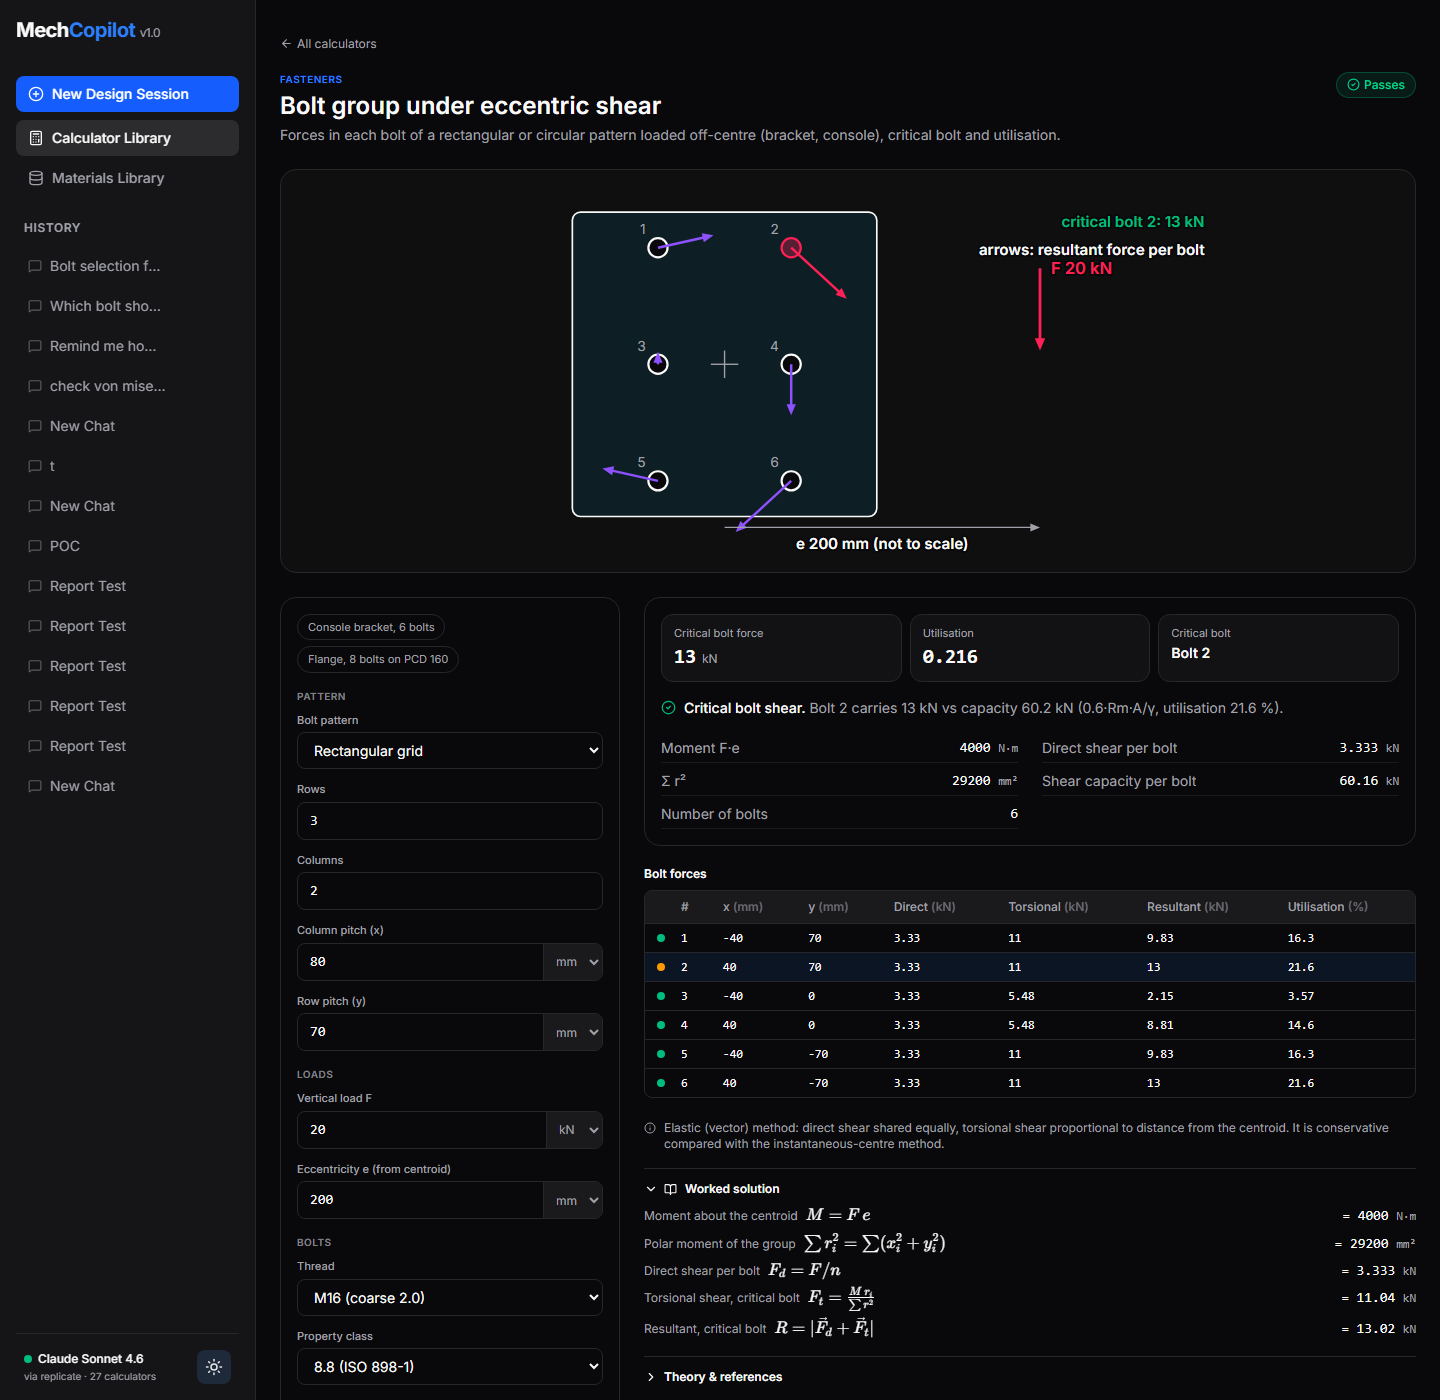
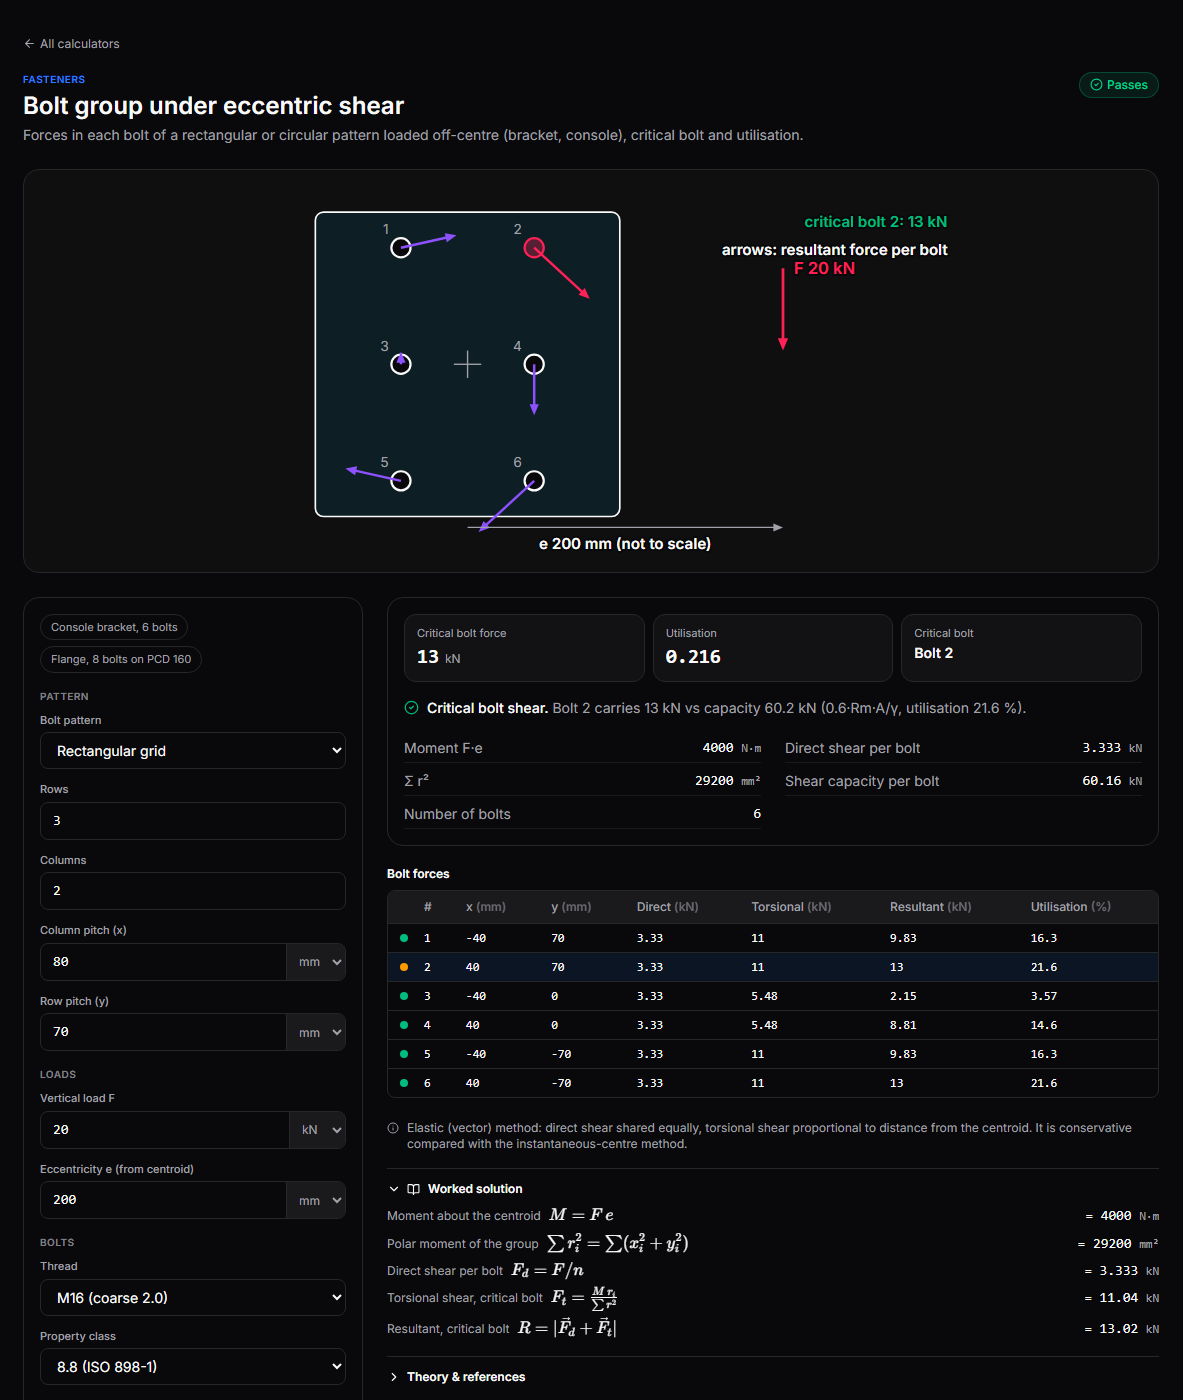
Fix four engineering errors, check answers for invented numbers, tidy the repo
Engineering (each with a regression test):
- Interference fit, hollow shaft: the yield check now uses the bore, where the
  stress is highest (Shigley eq. 3-50 at r = ri). It overstated the safety factor
  by 1.4x and more for thin walls.
- ISO 286: the M6 special case for 250-315 mm (ES = -9 um).
- ISO 281: reliability factor a1 at 99.95 % is 0.077, not 0.057.
- Column buckling: recommended K = 2.1 for fixed-free, next to the theoretical 2.0.

Copilot:
- After the answer, every number in it is checked against the calculations, the
  inputs, the assumptions and the conversation; anything else is shown to the user
  as an unverified-number notice. The rule was in the prompt only.
- The results handed to the review model stay valid JSON when long: detail is
  dropped first, then whole results, and the omission is stated, instead of a raw
  cut at 14,000 characters.

Repo and README:
- Settings refuse a line break in a value written to .env (422).
- Pydantic v2 names (from_attributes, model_dump).
- Screenshots cropped to the calculator, without the sidebar's test history; three
  unused ones added to the README; the installer section says no release exists yet.
- Removed project_roles/, agent prompts for a stack this project no longer uses.

415 backend tests pass.

diff --git a/backend/copilot.py b/backend/copilot.py
@@ -25,6 +25,7 @@ import pint
 from engineering.core import (CalcError, UNIT_CHOICES, coerce_inputs, derived_inputs, is_visible,
                               run_calculator, to_canonical, unit_label, ureg)
 from engineering.registry import CATALOG, ordered
+from evals.grader import grounding
 
 
 def extract_balanced_json(text: str, start: int) -> Optional[str]:
@@ -960,6 +961,36 @@ def _inputs_display(tool: Dict[str, Any]) -> Dict[str, Any]:
     return out
 
 
+def results_for_review(summary: List[Dict[str, Any]], limit: int = 14000) -> str:
+    """The computed results as valid JSON within `limit` characters. Cutting the JSON text
+    mid-way would hand the review model broken data it might fill in from memory, so detail
+    goes first (tables, notes, links), then whole results, and what was left out is said."""
+    text = json.dumps(summary, indent=1, ensure_ascii=False)
+    if len(text) <= limit:
+        return text
+    lean = [{k: v for k, v in s.items() if k not in ("tables", "notes", "links")} for s in summary]
+    kept: List[Dict[str, Any]] = []
+    for s in lean:
+        if len(json.dumps(kept + [s], indent=1, ensure_ascii=False)) > limit - 200:
+            break
+        kept.append(s)
+    if len(kept) < len(lean):
+        kept.append({"omitted": f"{len(lean) - len(kept)} more results not shown here; do not quote numbers for them"})
+    return json.dumps(kept, indent=1, ensure_ascii=False)
+
+
+def ungrounded_numbers(answer: str, message: str, history: List[Dict[str, Any]],
+                       summary: List[Dict[str, Any]], tools: List[Dict[str, Any]],
+                       assumptions: List[Any]) -> List[str]:
+    """Numbers in a model-written answer that no calculation, input, assumption or earlier
+    message produced. The prompt forbids them; this checks that the model complied."""
+    sources = "\n".join([message, _history_text(history),
+                         json.dumps(summary, ensure_ascii=False),
+                         json.dumps(tools, ensure_ascii=False, default=str),
+                         json.dumps(assumptions, ensure_ascii=False, default=str)])
+    return grounding(answer, sources)["ungrounded"]
+
+
 def summarise(results: List[Dict[str, Any]],
               tools: Optional[List[Dict[str, Any]]] = None) -> List[Dict[str, Any]]:
     """Compact, model-friendly digest of each run (also stored for reports).
@@ -1182,7 +1213,7 @@ def respond(message: str, history: List[Dict[str, Any]], tier: str = "efficient"
                   f"Assumptions made when planning: {json.dumps(plan.get('assumptions') or [], ensure_ascii=False)}\n"
                   f"Missing information: {json.dumps(plan.get('missing') or [], ensure_ascii=False)}\n\n"
                   f"COMPUTED RESULTS with TOOL INPUTS (authoritative):\n"
-                  f"{json.dumps(summary, indent=1, ensure_ascii=False)[:14000]}\n\n"
+                  f"{results_for_review(summary)}\n\n"
                   "Write your reply.")
         system = ANSWER_SYSTEM.replace("{word_limit}", str(WORD_LIMIT.get(tier, 170)))
         try:
@@ -1201,6 +1232,13 @@ def respond(message: str, history: List[Dict[str, Any]], tier: str = "efficient"
             yield {"type": "notice", "level": "warn", "content": str(e)}
             notices.append(str(e))
             configured = False
+    if answer:
+        loose = ungrounded_numbers(answer, message, history, summary, tools, plan.get("assumptions") or [])
+        if loose:
+            note = ("Not from a calculation or your input, so unverified: "
+                    + ", ".join(dict.fromkeys(loose)) + ".")
+            notices.append(note)
+            yield {"type": "notice", "level": "warn", "content": note}
     if not answer:
         answer = offline_answer(summary, configured=provider() != "offline")
         yield {"type": "token", "content": answer}

diff --git a/backend/tests/test_copilot.py b/backend/tests/test_copilot.py
@@ -291,3 +291,21 @@ def test_missing_key_inputs_ask_instead_of_computing(monkeypatch):
     assert final["tool_data"]["clarify"]["questions"] and final["tool_data"]["tools"] == []
     assert "[asked the user: Radial load; Bearing type]" in copilot._history_text(
         [{"role": "assistant", "content": final["content"], "tool_data": final["tool_data"]}])
+
+
+def test_results_for_review_stays_valid_json():
+    import json
+    from copilot import results_for_review
+    big = [{"calculator": f"c{i}", "outputs": {"x": "1 mm"}, "tables": ["t" * 3000]} for i in range(30)]
+    lean = json.loads(results_for_review(big, limit=4000))          # detail dropped first
+    assert len(lean) == 30 and all("tables" not in s for s in lean)
+    many = [{"calculator": f"c{i}", "outputs": {f"o{k}": "1 mm" for k in range(20)}} for i in range(30)]
+    text = results_for_review(many, limit=4000)                      # then whole results, said so
+    assert len(text) <= 4000 and "omitted" in json.loads(text)[-1]
+
+
+def test_ungrounded_numbers_flags_only_invented_values():
+    from copilot import ungrounded_numbers
+    summary = [{"calculator": "bolt", "outputs": {"Preload": "29.6 kN"}}]
+    answer = "**Use M10 8.8.** Preload 29.6 kN, tightening torque 48.5 N·m."
+    assert ungrounded_numbers(answer, "M10 bolt, 8.8", [], summary, [], []) == ["48.5"]

diff --git a/backend/routers/settings.py b/backend/routers/settings.py
@@ -42,6 +42,9 @@ def read_settings() -> Dict:
 def write_env(updates: Dict[str, Optional[str]]) -> None:
     """Set (value) or remove (None) variables in the .env file and in this process,
     keeping every other line of the file as it was."""
+    for k, v in updates.items():
+        if v is not None and ("\n" in v or "\r" in v):
+            raise ValueError(f"{k}: a value cannot contain a line break")
     path = env_path()
     lines = []
     if os.path.exists(path):
@@ -117,5 +120,8 @@ def save_settings(update: SettingsUpdate):
         if role in MODEL_VARS:
             model = model.strip()
             changes[MODEL_VARS[role]] = None if not model or model == MODEL_DEFAULTS[role] else model
-    write_env(changes)
+    try:
+        write_env(changes)
+    except ValueError as e:
+        raise HTTPException(status_code=422, detail=str(e))
     return {**read_settings(), "verified": verified}

diff --git a/backend/tests/test_transmission.py b/backend/tests/test_transmission.py
@@ -244,3 +244,16 @@ def test_drive_loads_spur_has_no_axial_force_and_coupling_no_shaft_load():
 def test_drive_loads_rejects_zero_speed():
     with pytest.raises(CalcError):
         run("drive_loads", {"n": 0})
+
+
+def test_interference_hollow_shaft_is_checked_at_the_bore():
+    # Shigley eq. 3-50 at r = ri: sigma_r = 0, sigma_t = -2 p d^2 / (d^2 - di^2), the highest stress in the shaft
+    res = run("interference_fit", {"di": {"value": 30, "unit": "mm"}})
+    p = out(res, "p_max")
+    assert out(res, "vm_shaft") == pytest.approx(2 * p * 40 ** 2 / (40 ** 2 - 30 ** 2), rel=1e-6)
+
+
+def test_iso286_m6_special_case_250_to_315():
+    # ISO 286-2: for M6 over 250 up to 315 mm, ES = -9 um instead of -11 um
+    assert iso286.hole_deviations(280, "M", 6) == pytest.approx((-9, -41))
+    assert iso286.hole_deviations(200, "M", 6)[0] != -9

diff --git a/backend/tests/test_settings.py b/backend/tests/test_settings.py
@@ -87,3 +87,12 @@ def test_unverifiable_key_is_saved_with_a_flag(data, monkeypatch):
     monkeypatch.setattr(settings, "check_key", lambda provider, key: None)   # no internet
     out = settings.save_settings(settings.SettingsUpdate(provider="replicate", api_key="r8_offline123456"))
     assert out["verified"] is None and "r8_offline123456" in _env(data)
+
+
+def test_write_env_refuses_a_line_break(tmp_path, monkeypatch):
+    from routers import settings
+    monkeypatch.setattr(settings, "env_path", lambda: str(tmp_path / ".env"))
+    import pytest
+    with pytest.raises(ValueError):
+        settings.write_env({"REPLICATE_MODEL": "x\nALLOWED_ORIGINS=*"})
+    assert not (tmp_path / ".env").exists()

diff --git a/backend/engineering/structural/columns.py b/backend/engineering/structural/columns.py
@@ -8,7 +8,8 @@ from ..materials import material_params, resolve_material
 END_CONDITIONS = {
     # key: (label, effective length factor K)
     "pinned_pinned": ("Pinned – pinned (K = 1.0)", 1.0),
-    "fixed_free": ("Fixed – free / flagpole (K = 2.0)", 2.0),
+    "fixed_free": ("Fixed – free / flagpole, theoretical (K = 2.0)", 2.0),
+    "fixed_free_rec": ("Fixed – free / flagpole, recommended (K = 2.1)", 2.1),
     "fixed_pinned": ("Fixed – pinned, theoretical (K = 0.7)", 0.7),
     "fixed_pinned_rec": ("Fixed – pinned, recommended (K = 0.8)", 0.8),
     "fixed_fixed": ("Fixed – fixed, theoretical (K = 0.5)", 0.5),

diff --git a/backend/tests/test_bearings.py b/backend/tests/test_bearings.py
@@ -164,3 +164,11 @@ def test_importer_rejects_bad_rows():
     with pytest.raises(ImportError_):
         validate_rows([{"designation": "X", "type": "trb", "d": "20", "D": "47", "B": "15",
                         "C": "30", "C0": "30", "Pu": "3", "n_ref": "9000", "n_lim": "11000"}])
+
+
+def test_a1_matches_iso281_formula_at_high_reliability():
+    # ISO 281:2007 Table 12 and a1 = 0.95 (ln(100/R) / ln(100/90))^(2/3) + 0.05
+    for r in ("99.9", "99.95"):
+        R = float(r)
+        formula = 0.95 * (math.log(100 / R) / math.log(100 / 90)) ** (2 / 3) + 0.05
+        assert theory.A1[r] == pytest.approx(formula, abs=0.001)

diff --git a/backend/tests/test_structural.py b/backend/tests/test_structural.py
@@ -289,3 +289,10 @@ def test_kt_plate_hole():
 def test_scf_error():
     with pytest.raises(CalcError):
         run_calculator(CATALOG["stress_concentration"], {"D": mm(20), "d": mm(30)})
+
+
+def test_column_fixed_free_recommended_value():
+    base = {"section": "round", "d": mm(20), "L": mm(2000), "P": {"value": 1, "unit": "kN"}, **custom()}
+    p1 = out(run_calculator(CATALOG["column_buckling"], {**base, "ends": "pinned_pinned"}), "Pcr")["value"]
+    p2 = out(run_calculator(CATALOG["column_buckling"], {**base, "ends": "fixed_free_rec"}), "Pcr")["value"]
+    assert p2 == pytest.approx(p1 / 2.1 ** 2, rel=1e-6)

diff --git a/backend/routers/sessions.py b/backend/routers/sessions.py
@@ -29,7 +29,7 @@ class SessionResponse(BaseModel):
     created_at: str
     
     class Config:
-        orm_mode = True # Allow ORM objects to be returned
+        from_attributes = True  # build from ORM objects
 
 class SessionDetail(SessionResponse):
     messages: List[MessageSchema]
@@ -70,7 +70,7 @@ def get_session(session_id: int, db: Session = Depends(get_db)):
         ) for m in session.messages
     ]
     
-    sess_dict = convert_session(session).dict()
+    sess_dict = convert_session(session).model_dump()
     sess_dict["messages"] = messages
     return sess_dict
 

diff --git a/backend/engineering/bearings/theory.py b/backend/engineering/bearings/theory.py
@@ -41,7 +41,7 @@ _Y = [2.30, 1.99, 1.71, 1.55, 1.45, 1.31, 1.15, 1.04, 1.00]
 # ISO 281:2007 Table 12
 A1: Dict[str, float] = {"90": 1.0, "95": 0.64, "96": 0.55, "97": 0.47, "98": 0.37, "99": 0.25,
                         "99.2": 0.22, "99.4": 0.19, "99.6": 0.16, "99.8": 0.12, "99.9": 0.093,
-                        "99.95": 0.057}
+                        "99.95": 0.077}
 
 # eC midpoints of ISO 281 Table 13, (dm < 100 mm, dm >= 100 mm)
 CONTAMINATION: Dict[str, Tuple[str, float, float]] = {

diff --git a/backend/engineering/transmission/keys_fits.py b/backend/engineering/transmission/keys_fits.py
@@ -377,6 +377,8 @@ def _compute_interference(x: Dict[str, Any]) -> Dict[str, Any]:
     vm_h = _vm2(st_h, -p_max)
     st_s = -p_max * (d ** 2 + di ** 2) / (d ** 2 - di ** 2)
     vm_s = _vm2(st_s, -p_max)
+    if di > 0:  # hollow shaft: the bore (sigma_r = 0) carries the highest stress, Shigley eq. 3-50 at r = ri
+        vm_s = max(vm_s, 2 * p_max * d ** 2 / (d ** 2 - di ** 2))
     n_hub, n_shaft = hub["Sy"] / vm_h, sh["Sy"] / vm_s
     dT = (dmax + 0.001 * d) / (hub["alpha"] * d)
 

diff --git a/backend/engineering/transmission/iso286.py b/backend/engineering/transmission/iso286.py
@@ -140,6 +140,8 @@ def hole_deviations(size: float, letter: str, grade: int) -> Tuple[float, float]
     if letter == "M":
         base = -shaft_ei_fundamental(size, "m", grade)
         ES = base + _delta(size, grade) if grade <= 8 else base
+        if grade == 6 and 250 < size <= 315:  # ISO 286-2 special case for M6
+            ES = -9.0
         return ES, ES - it
     if letter == "N":
         base = -shaft_ei_fundamental(size, "n", grade)
